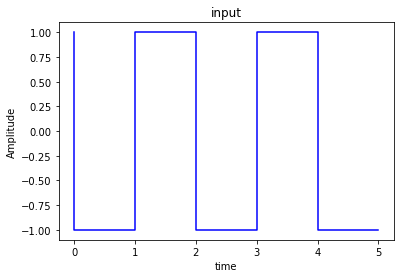
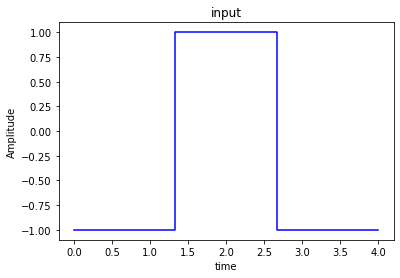
Add files via upload

diff --git a/BFSK.py b/BFSK.py
@@ -7,20 +7,27 @@ Created on Mon Jul  1 02:25:51 2019
 
 from numpy import arange,linspace,cos,pi,sin
 import matplotlib.pyplot as plt
-
+import random
 X=[]
-x=[1,0,1,0,1,0]
+# x=[1,0,1,0]
+Start = 0
+Stop = 1
+limit = random.randint(2,7)
+
+x = [random.randint(Start, Stop) for iter in range(limit)]
+
+print(x)
 for i in range(len(x)):
     if x[i] == 1:
         X.append(1) 
     elif x[i] == 0:
         X.append(0)
 
-t=arange(0,1,0.01)
+t=linspace(0,len(X),num =100)
 op1=[]
 op2=[]
 for j in range(len(t)):
-    op1.append(sin(2*pi*3*t[j]))
+    op1.append(sin(2*pi*2*t[j]))
     
 for k in range(len(t)):
     op2.append(sin(2*pi*1*t[k]))
@@ -33,7 +40,7 @@ for l in range(len(X)):
             elif X[l] * op1[m] == 1 or -1:
                 f.append(op1[m])
             
-        
+T = linspace(0,len(X),num = (100*len(X)))        
 
 plt.plot(X,'b',drawstyle='steps-pre')
 plt.title('input')
@@ -41,19 +48,19 @@ plt.xlabel('time')
 plt.ylabel('Amplitude')
 plt.show()
 
-plt.plot(op1,'b')
+plt.plot(t,op1,'b')
 plt.title('input')
 plt.xlabel('time')
 plt.ylabel('Amplitude')
 plt.show()
 
-plt.plot(op2,'r')
+plt.plot(t,op2,'r')
 plt.title('input')
 plt.xlabel('time')
 plt.ylabel('Amplitude')
 plt.show()
 
-plt.plot(f,'k')
+plt.plot(T,f,'k')
 plt.title('FSK output')
 plt.xlabel('time')
 plt.ylabel('Amplitude')

diff --git a/ASK1.py b/ASK1.py
@@ -5,42 +5,50 @@ Binary ASK
 from numpy import arange,linspace,cos,pi,sin
 import matplotlib.pyplot as plt
 #import math
-#import random
+import random
+
+Start = 0
+Stop = 1
+limit = random.randint(2,7)
+
+x = [random.randint(Start, Stop) for iter in range(limit)]
+
+print(x)
 
 
 X=[]
-x=[1,0,1,0,1,0]
+#x=[1,0,1,0,1,0]
 for i in range(len(x)):
     if x[i] == 1:
         X.append(1)
     elif x[i] == 0:
         X.append(0)
         
-
-t = arange(0,1,0.01)
+n=linspace(0,len(X),num=len(X))
+t=linspace(0,len(X),num=100)
 phi=[]
 for i in range (0,len(t)):
-    phi.append(sin(2*pi*2*t[i]))
-
+    phi.append(sin(2*pi*t[i]))
+T = linspace(0,len(X),num=(100*len(X)))
 op=[]
-for i in range(0,len(X)):
-    for j in range(0,len(phi)):
-        op.append(X[i]*phi[j])
+for i in range(len(X)):
+    for j in range(len(phi)):
+            op.append(X[i]*phi[j])
 
-plt.plot(X,'b',drawstyle='steps-pre')
+plt.plot(n,X,'b',drawstyle='steps-pre')
 plt.title('input')
 plt.xlabel('time')
 plt.ylabel('Amplitude')
 plt.show()
 
-plt.plot(phi,'k')
+plt.plot(t,phi,'k')
 plt.title('sinusoidal wave')
 plt.xlabel('time')
 plt.ylabel('Amplitude')
 plt.show()
 
 
-plt.plot(op)
+plt.plot(T,op)
 plt.title('ASK waveform')
 plt.xlabel('Time')
 plt.ylabel('Amplitude')

diff --git a/PSK1.py b/PSK1.py
@@ -6,39 +6,48 @@ Binary PSK
 from numpy import arange,linspace,cos,pi,sin
 import matplotlib.pyplot as plt
 import math
-
+import random
 X=[]
-x=[1,0,1,0,1,0]
+# x=[1,0,1,0]
+
+Start = 0
+Stop = 1
+limit = random.randint(2,7)
+
+x = [random.randint(Start, Stop) for iter in range(limit)]
+
+print(x)
 for i in range(len(x)):
     if x[i] == 1:
         X.append(1)
     elif x[i] == 0:
         X.append(-1)
         
-
-t=arange(0,1,0.01)
+n = linspace(0,len(X),num=len(X))
+t=linspace(0,len(X),num=100)
 phi=[]
 for i in range (len(t)):
-    phi.append(sin(2*pi*2*t[i]))
+    phi.append(sin(2*pi*t[i]))
 
 op=[]
+T = linspace(0,len(X),num = (len(X)*100))
 for i in range(len(X)):
     for j in range(len(phi)):
         op.append(X[i]*phi[j])
 
-plt.plot(X,'b',drawstyle='steps-pre')
+plt.plot(n,X,'b',drawstyle='steps-pre')
 plt.title('input')
 plt.xlabel('time')
 plt.ylabel('Amplitude')
 plt.show()
 
-plt.plot(phi,'k')
+plt.plot(t,phi,'k')
 plt.title('sinusoidal wave')
 plt.xlabel('time')
 plt.ylabel('Amplitude')
 plt.show()
 
-plt.plot(op)
+plt.plot(T,op)
 plt.title('PSK waveform')
 plt.xlabel('Time')
 plt.ylabel('Amplitude')
